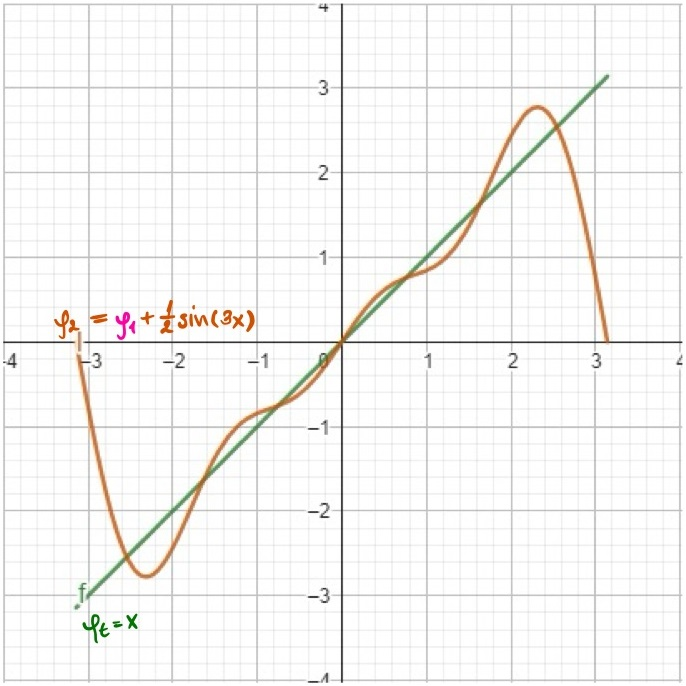
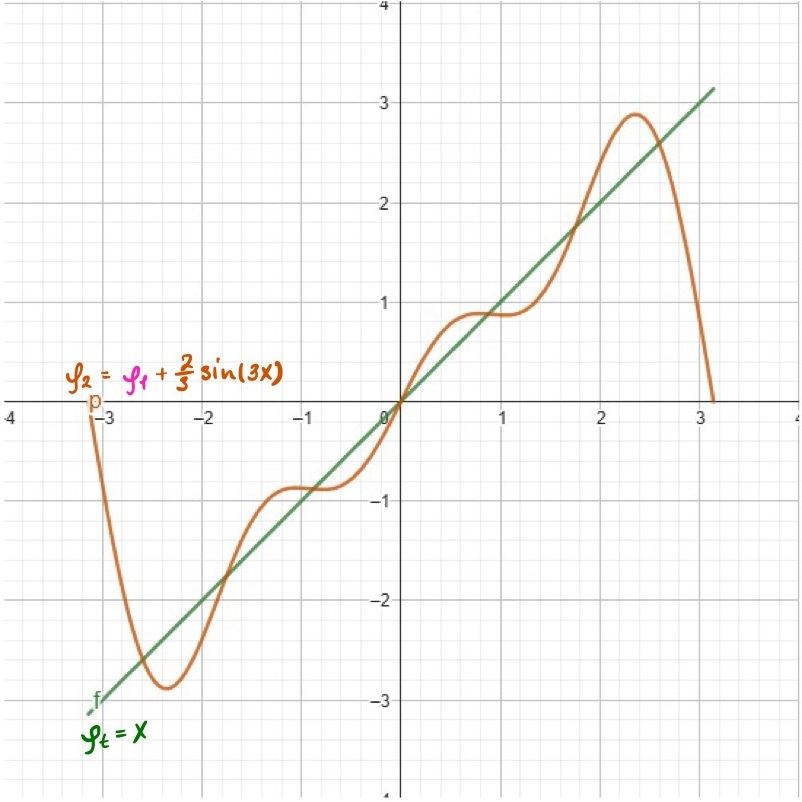
Add new style in css file. Add table of content, .gifs to sh-lighting post

diff --git a/css/main.css b/css/main.css
@@ -426,8 +426,23 @@
   }
   
   .image-row {
-    display: flex !important;
-    justify-content: center !important; /* Center the images horizontally */
-    align-items: center !important; /* Center the images vertically */
-    gap: 10px !important; /* Add space between images */
+    display: flex;
+    justify-content: space-around; /* Distribute space evenly */
+    align-items: center;
+    margin: 20px 0;
+  }
+  .image-container {
+      text-align: center; /* Center text below each image */
+  }
+  .image-container img {
+      max-width: 100%; /* Ensure images are responsive */
+      height: auto;
+      display: block;
+      margin: 0 auto; /* Center image within its container */
+  }
+  .image-caption {
+      margin-top: 10px;
+      font-size: 16px; /* Increase font size */
+      color: #000; /* Make text color black for vividness */
+      text-align: center; /* Center align the text */
   }

diff --git a/_includes/head.html b/_includes/head.html
@@ -5,7 +5,7 @@
     <meta name="viewport" content="width=device-width">
     <meta name="description" content="{{ site.description }}">
     <link rel="canonical" href="{{ page.url | replace:'index.html','' | prepend: site.baseurl | prepend: site.url }}">
-    <link href="/feed.xml" type="application/atom+xml" rel="alternate" title="{{ site.title }} posts" />
+    <!-- <link href="/feed.xml" type="application/atom+xml" rel="alternate" title="{{ site.title }} posts" /> -->
 
     <!-- Custom CSS -->
     <link rel="stylesheet" href="{{ "/css/main.css" | prepend: site.baseurl }}">

diff --git a/_includes/header.html b/_includes/header.html
@@ -3,9 +3,7 @@
     <div class="wrap">
   
       <div style="float:left; margin-top:10px; margin-right:10px;">
-      <a href="{{ "/feed.xml" | prepend: site.baseurl }}">
-        <img src="/assets/rssicon.svg" width="40">
-      </a>
+      <img src="/assets/general/cyber_cow_boy_lowres.png" width="40">
       </div>
   
       <a class="site-title" href="{{ site.baseurl }}/">{{ site.title }}</a>

diff --git a/_posts/2024-10-31-sh-lighting.md b/_posts/2024-10-31-sh-lighting.md
@@ -18,7 +18,21 @@ mathjax: true
 }
 </style>
 
+
+
 <a href="https://colab.research.google.com/gist/ostapagon/ed544a229cfe4d92472460fe5d347395/spherical_harmonics_lighting_pytorch3d.ipynb"><img src="https://colab.research.google.com/assets/colab-badge.svg" alt="google colab logo"></a>
+
+
+<details>
+  <summary>Table of Contents</summary>
+  <ul>
+    <li><a href="#spherical-harmonics-in-illumination">Spherical Harmonics in Illumination</a></li>
+    <li><a href="#converting-spherical-harmonics-to-environment-maps">Converting Spherical Harmonics to Environment Maps</a></li>
+    <li><a href="#scene-illumination-with-environment-maps">Scene Illumination with Environment Maps</a></li>
+    <li><a href="#implementation-with-pytorch3d">Implementation with PyTorch3D</a></li>
+    <li><a href="#all-together-lighting-with-spherical-harmonics">All Together: Lighting with Spherical Harmonics</a></li>
+  </ul>
+</details>
 
  This post explores a practical method for using spherical harmonics in scene illumination. Instead of directly calculating light from spherical harmonics, we'll convert them into a 2D UV environment map for efficient sampling. This approach transforms spherical harmonics into 2D image that can be easialy understood, analyzed and regularized. Don`t forget to run the code in google colab to try it all by yourself.
 
@@ -37,10 +51,12 @@ How far around the bubble we've gone (that's our azimuth angle, $\phi$)
 With just these two pieces of information, we can map out the entire lighting environment surrounding our scene. It's like creating a super-efficient light map that tells us how bright and what color the light is coming from every direction.
 The best part? This method gives us a compact way to store all this lighting info. Instead of trying to remember every tiny detail about the light, we just need to keep track of a few key numbers. It's like compressing a huge image file into a small, manageable size, but for lighting!
 
-<p align="center">
-  <img src="/assets/sh_lighting_pytorch3d/spherical_harmonics_overview.jpg" width="1000"/>
-</p>
-<p align="center">Representation of spherical harmonics on the sphere</p>
+<div class="image-row">
+    <div class="image-container">
+        <img src="/assets/sh_lighting_pytorch3d/spherical_harmonics_overview.jpg" width="1000"/>
+        <div class="image-caption">Representation of spherical harmonics on the sphere</div>
+    </div>
+</div>
 
 On the image above our scene is surrounded by this sphere. We have two light sources: $L_0$ (a red light pattern) and $L_1$ (a green light pattern). We can actually model these two light sources on the sphere surface by finding the right set of spherical harmonics coefficients. Let's take a closer look at the math behind this.
 
@@ -48,10 +64,12 @@ On the image above our scene is surrounded by this sphere. We have two light sou
    - Mathematical overview
    - Implementation using PyTorch
 
-<p align="center">
-  <img src="/assets/sh_lighting_pytorch3d/sh_main_exp.png" width="500"/>
-</p>
-<p align="center">Spherical Harmonic basis functions</p>
+<div class="image-row">
+    <div class="image-container">
+        <img src="/assets/sh_lighting_pytorch3d/sh_main_exp.png" width="500"/>
+        <div class="image-caption">Spherical Harmonic basis functions</div>
+    </div>
+</div>
 
 For people who can read this high level math here is some brief annotation:
 
@@ -81,27 +99,33 @@ $$
 The process of finding coefficients $a_0, a_1, a_2, ...$ is called the Fourier Series Expansion. It works by decomposing the target function into a sum of sine and cosine functions(in our example we use only sine functions) - **orthogonal basis functions**—and finding the coefficients by projecting the target function onto each basis function through integration. For sake of simplicity we consider interval $x \in [-\pi, \pi]$. We won\`t go into details towards how this coefficients is found, but lets see how with each new basis added we getting better approximation of our target function $\phi_{t}$.
 
 <!-- Row 1: Single image -->
-<p align="center">
-  <img src="/assets/sh_lighting_pytorch3d/tar_annot.png" width="400"/>
-</p>
-<p align="center">Target function: $$\phi_{t}(x) = 2\sin(x)$$</p>
+<div class="image-row">
+    <div class="image-container">
+        <img src="/assets/sh_lighting_pytorch3d/tar_annot.png" width="400"/>
+        <div class="image-caption">Target function: $\phi_{t}(x) = 2\sin(x)$</div>
+    </div>
+</div>
 
 Using the Fourier Series Expansion out first coefficient $a_0=2$, so our 0-th approximation is $\phi_0(x) = 2\sin(x)$. As we can see on the image bellow $\phi_0(x)$ is doing a bit poor job approximating our target function. Let\`s throw into the mix second basis function $a_1\sin(2x)$ and see how it will improve our approximation. The second order approximation is $\phi_1(x) = 2\sin(x) - \sin(2x)$. The countour of the function is getting closer to our target function.
-<!-- Row 2: Two images -->
-<p align="center">
-  <img src="/assets/sh_lighting_pytorch3d/approx0_annot.png" width="300"/>
-  <img src="/assets/sh_lighting_pytorch3d/approx1_annot.png" width="300"/>
-</p>
-<p align="center">&emsp;&emsp;&emsp;&emsp; First approximation: $\phi_0(x) = 2\sin(x)$ &emsp;&emsp; Second approximation: $\phi_1(x) = 2\sin(x) - \sin(2x)$</p>
+<div class="image-row">
+    <div class="image-container">
+        <img src="/assets/sh_lighting_pytorch3d/approx0_annot.png" width="300"/>
+        <div class="image-caption">First approximation: $\phi_0(x) = 2\sin(x)$</div>
+    </div>
+    <div class="image-container">
+        <img src="/assets/sh_lighting_pytorch3d/approx1_annot.png" width="300"/>
+        <div class="image-caption">Second approximation: $\phi_1(x) = 2\sin(x) - \sin(2x)$</div>
+    </div>
+</div>
 
-Step by step adding new basis $\phi_2, \phi_3, \phi_4$ with coefficients $a_2=\frac{1}{2}, a_3=-\frac{1}{2}, a_4=\frac{2}{5}$ we getting better and better approximation of our target function. Each approximation occilates more frequently around the target function making approximation more accurate.
+Step by step adding new basis $\phi_2, \phi_3, \phi_4$ with coefficients $a_2=\frac{2}{3}, a_3=-\frac{1}{2}, a_4=\frac{2}{5}$ we getting better and better approximation of our target function. Each approximation occilates more frequently around the target function making approximation more accurate.
 <!-- Row 3: Two images -->
 <div class="image-row">
   <img src="/assets/sh_lighting_pytorch3d/approx2_annot.png" width="300"/>
   <img src="/assets/sh_lighting_pytorch3d/approx3_annot.png" width="300"/>
   <img src="/assets/sh_lighting_pytorch3d/approx4_annot.png" width="300"/>
 </div>
-<p align="center">Next order approximations: $\phi_3(x)$, $\phi_4(x)$, $\phi_5(x)$</p>
+<p align="center" style="font-size: 18px;">Next order approximations: $\phi_3(x)$, $\phi_4(x)$, $\phi_5(x)$</p>
 
 $$
 \text{Full equations for each approximation step:} \\
@@ -111,18 +135,28 @@ $$
 \begin{align*}
 \phi_0(x) &= 2\sin(x) \\
 \phi_1(x) &= 2\sin(x) - \sin(2x) \\
-\phi_2(x) &= 2\sin(x) - \sin(2x) + \frac{1}{2}\sin(3x) \\
-\phi_3(x) &= 2\sin(x) - \sin(2x) + \frac{1}{2}\sin(3x) - \frac{1}{2}\sin(4x) \\
-\phi_4(x) &= 2\sin(x) - \sin(2x) + \frac{1}{2}\sin(3x) - \frac{1}{2}\sin(4x) + \frac{2}{5}\sin(5x)
+\phi_2(x) &= 2\sin(x) - \sin(2x) + \frac{2}{3}\sin(3x) \\
+\phi_3(x) &= 2\sin(x) - \sin(2x) + \frac{2}{3}\sin(3x) - \frac{1}{2}\sin(4x) \\
+\phi_4(x) &= 2\sin(x) - \sin(2x) + \frac{2}{3}\sin(3x) - \frac{1}{2}\sin(4x) + \frac{2}{5}\sin(5x)
 \end{align*}
 $$
 
-What is cool about this approch is how we just threw in new basis function with new coefficients without recalculating all the previous ones. This is the power of **ORTHOGONALITY**. Because basis function does not influence each other we can just add new ones and find their coefficients **INDEPENDENTLY**. For us, computer people this word translates into parallelization. We can speed up our computations and also reuse previous iterations, nothing goes to waste. This is the same property that Spherical Harmonics poses. Those tricky formulas actually generate infinite set of basis functions that are orthogonal  between each other. SH basis functions can be used to approximate any function on the surface of the sphere. In our practical case is a lighting pattern around our scene. Hopefully, orthogonality property of **SH** is more or less clear now, but what about those **degree** and **order**?
+<!-- Row 1: Single image -->
+<div class="image-row">
+    <div class="image-container">
+        <img src="/assets/sh_lighting_pytorch3d/approx_30degree.gif" width="600"/>
+        <div class="image-caption">Approximation of $\phi_t(x)$ with 30 basis functions</div>
+    </div>
+</div>
 
-<p align="center">
-  <img src="/assets/sh_lighting_pytorch3d/sh_bands.png" width="600"/>
-</p>
-<p align="center"></p>
+
+What is cool about this approch is how we just threw in new basis function with new coefficients without recalculating all the previous ones. This is the power of **ORTHOGONALITY**. Because basis function does not influence each other we can just add new ones and find their coefficients **INDEPENDENTLY**. For us, computer people this word translates into parallelization. We can speed up our computations and also reuse previous iterations, nothing goes to waste. This is the same property that Spherical Harmonics poses. Those tricky formulas actually generate infinite set of basis functions that are orthogonal  between each other. SH basis functions can be used to approximate any function on the surface of the sphere. In our practical case is a lighting pattern around our scene. Hopefully, orthogonality property of **SH** is more or less clear now, but what about those **degree** and **order**?
+<div class="image-row">
+    <div class="image-container">
+        <img src="/assets/sh_lighting_pytorch3d/sh_bands.png" width="600"/>
+        <div class="image-caption">Spherical Harmonics Bands</div>
+    </div>
+</div>
 
 On the image above you can observe different SH bands. With each new degree $l$ we add new band of functions. Order $m$ describes number of oscillations within each band and ranges $[-l, l]$. New band provides more variability and allows us to represent more complex patterns. In case of using SH for representing lighting patterns we usually limit ourselves with degree $l=2$. This is because lighting patterns are usually smooth and do not require high frequency oscillations. For degree $l=2$ we have 9 basis functions in total. Why 9? because total number of basis functions is $1 + 3 + 5 = 9$ - first 3 rows of the image above. Enought of math for now, let\`s focus on how we can code these equations and see what patterns they represent. There are 2 common ways to approach calculation of light with spherical harmonics:
 
@@ -146,10 +180,12 @@ def set_environment_map_resolution(self, res):
 ```
 
 Second step is to write a function to calculate associated Legendre polynomials. They have recursive relationship which we can use to compute them. Code for this is kind of counterintuitive, but it follows the definition $P_l^m$.
-<p align="center">
-  <img src="/assets/sh_lighting_pytorch3d/associated_legrende_polynomial.png" width="350"/>
-</p>
-<p align="center">Associated Legendre polynomial</p>
+<div class="image-row">
+    <div class="image-container">
+        <img src="/assets/sh_lighting_pytorch3d/associated_legrende_polynomial.png" width="350"/>
+        <div class="image-caption">Associated Legendre polynomial</div>
+    </div>
+</div>
 
 ```python
 def compute_associated_legendre_polynomial(self, l, m, x):
@@ -178,15 +214,19 @@ def compute_associated_legendre_polynomial(self, l, m, x):
         pmmp1 = pll
     return pll
 ```
-<p align="center">
-  <img src="/assets/sh_lighting_pytorch3d/norm_factor.png" width="300"/>
-</p>
-<p align="center">Third step: Normalization factor</p>
+<div class="image-row">
+    <div class="image-container">
+        <img src="/assets/sh_lighting_pytorch3d/norm_factor.png" width="300"/>
+        <div class="image-caption">Third step: Normalization factor</div>
+    </div>
+</div>
 
-<p align="center">
-  <img src="/assets/sh_lighting_pytorch3d/sh_formula.png" width="500"/>
-</p>
-<p align="center">Fourth step: Spherical harmonic formula</p>
+<div class="image-row">
+    <div class="image-container">
+        <img src="/assets/sh_lighting_pytorch3d/sh_formula.png" width="500"/>
+        <div class="image-caption">Fourth step: Spherical harmonic formula</div>
+    </div>
+</div>
 
 ```python
 def compute_normalization_factor(self, l, m):
@@ -243,17 +283,21 @@ When light interacts with the surface of an object, it can be reflected in diffe
 
 **Specular reflection** is responsible for creating highlights and shiny surfaces. Incomoing light rays $R_{\text{in}}$ bounces off the surface and becomes $R_{\text{out}}$. $R_{\text{out}}$ has the same angle to surface normal $N$ as $R_{\text{in}}$. To calculate $R_{\text{out}}$ we need to reflect $R_{\text{in}}$ over the surface normal $N$. We will use newly calculated $R_{\text{out}}$ to sample lighting value from the Environment Map.
 
-<p align="center">
-  <img src="/assets/sh_lighting_pytorch3d/specular_reflection.jpg" width="500"/>
-</p>
-<p align="center">Specular reflection</p>
+<div class="image-row">
+    <div class="image-container">
+        <img src="/assets/sh_lighting_pytorch3d/specular_reflection.jpg" width="500"/>
+        <div class="image-caption">Specular reflection</div>
+    </div>
+</div>
 
 **Diffuse reflection** is responsible for creating a diffuse appearance. In this case, light is scattered in all directions, creating a uniform illumination across the surface. Due to the roughness of the surface incoming rays $R_{\text{in}}$ are reflected in different directions. Instead of modeling each ray reflection depending on the point it hits, we just use the normal $\overline{N}$ average of $N_0, N_1, N_2$. $\overline{N}$ nicely describes small region of the surface and used to sample lighting value from the Environment Map. It will provide average lighting value of rays scattered across that surface region.
 
-<p align="center">
-  <img src="/assets/sh_lighting_pytorch3d/diffuse_reflection.jpg" width="500"/>
-</p>
-<p align="center">Diffuse reflection</p>
+<div class="image-row">
+    <div class="image-container">
+        <img src="/assets/sh_lighting_pytorch3d/diffuse_reflection.jpg" width="500"/>
+        <div class="image-caption">Diffuse reflection</div>
+    </div>
+</div>
 
 To sample values from Environment Map for specular reflection use $R_{\text{out}}$ direction and for diffuse reflection use normal $\overline{N}$. Now the question is how having 2 direction vectors get light values from 2D map images. It is actually quite simple:
 
@@ -375,10 +419,12 @@ The **shininess** parameter in the `EnvMapLighting.specular` method controls the
 
 Having all the puzzle pieces put together we can now reconstruct the scene illumination with Environment Map generated from SH coefficients. I previously generated a training dataset $I_{\text{p}}$ of a cow mesh using 10 different camera angles and a `PointLights` illumination scheme from PyTorch3D. Now we can use the same camera angles and mesh to recreate the `PointLights` lighting with our `EnvMapLighting` class and see it`s capabilities.
 
-<p align="center">
-  <img src="/assets/sh_lighting_pytorch3d/cow_train_data.png" width="800"/>
-</p>
-<p align="center">Trainging Images with PointLights illumination</p>
+<div class="image-row">
+    <div class="image-container">
+        <img src="/assets/sh_lighting_pytorch3d/cow_train_data.png" width="800"/>
+        <div class="image-caption">Training Images with PointLights illumination</div>
+    </div>
+</div>
 
 
 To begin with we have to initialize our `SphericalHarmonics` class and define the loss function and optimizer. Our resulting Env Map will be a $256 \times256$ image. Usually, to reconstruct scene illumination first 3 bands of spherical harmonics are enough. In most cases scene light is smooth and does not require high frequency oscillations. This means we have $3^2 = 9$ coefficients to optimize. Also, in our experiment we will use 2 sets of coefficients for diffuse and specular lighting seperately to have more control over the lighting. During optimization of SH coefficients we will use simple MSE loss function and Adam optimizer.
@@ -444,18 +490,34 @@ Training finished!
 
 With each iteration loss reduces meaning our coefficients are getting closer to the optimal values. After 300 iterations we can see that our Environment Map is pretty close to the original training images.
 
-<p align="center">
-  <img src="/assets/sh_lighting_pytorch3d/diffuse_specular_envmaps.png" width="800"/>
-</p>
-<p align="center">Reconstructed Diffuse and Specular Environment Maps</p>
+<div class="image-row">
+    <div class="image-container">
+        <img src="/assets/sh_lighting_pytorch3d/diffuse_specular_envmaps.png" width="800"/>
+        <div class="image-caption">Reconstructed Diffuse and Specular Environment Maps</div>
+    </div>
+</div>
 
-
-<p align="center">
-  <img src="/assets/sh_lighting_pytorch3d/cow_reconstructed_data.png" width="800"/>
-</p>
-<p align="center">Test Images with Environment Map Lighting</p>
+<div class="image-row">
+    <div class="image-container">
+        <img src="/assets/sh_lighting_pytorch3d/cow_reconstructed_data.png" width="800"/>
+        <div class="image-caption">Test Images with Environment Map Lighting</div>
+    </div>
+</div>
 
 Images above generated with Environment Map Lighting from SH coefficients. We can see that SH coefficents is able to reconstruct the scene illumination with smooth lighting transitions.
+
+To make one step further, we can zoom out of the scene and orbit around the cow wrapped in the environment map lighting optimized with SH coefficients.
+
+<div class="image-row">
+    <div class="image-container">
+        <img src="/assets/sh_lighting_pytorch3d/diffuse_orbitaround.gif" width="300" style="animation-delay: 0s;">
+        <div class="image-caption"><strong>Diffuse Env Map</strong></div>
+    </div>
+    <div class="image-container">
+        <img src="/assets/sh_lighting_pytorch3d/specular_orbitaround.gif" width="300" style="animation-delay: 0s;">
+        <div class="image-caption"><strong>Specular Env Map</strong></div>
+    </div>
+</div>
 
 ## All Together: Lighting with Spherical Harmonics
 By combining all the components we've discussed, we've concocted a magical potion for scene illumination using spherical harmonics! Abracadabra! I hope this all makes sense to you.
